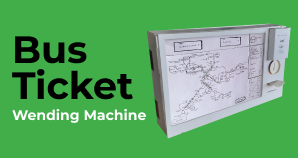
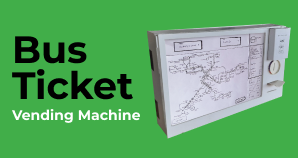
alignment

Changed region(s): [[0.0302, 0.6835, 0.5134, 0.7848]]

diff --git a/research-projects/bus-ticket.html b/research-projects/bus-ticket.html
@@ -22,7 +22,7 @@
         rel="stylesheet">
         <link href="https://fonts.googleapis.com/css2?family=Playfair+Display:wght@500;600;700;800;900&family=Poppins:ital,wght@0,100;0,200;0,300;0,400;0,500;0,600;0,700;0,800;0,900;1,100;1,200;1,300;1,400;1,500;1,600;1,700;1,800;1,900&display=swap" rel="stylesheet">
 
-    <title>Bus Ticket Wending Machine</title>
+    <title>Bus Ticket vending Machine</title>
 </head>
 
 <body>
@@ -97,7 +97,7 @@
         
         <div class="col-sm-9 headline" >
 
-            <p class="heading-text" id="categories">Bus ticket Wending Machine</p>
+            <p class="heading-text" id="categories">Bus ticket vending Machine</p>
 
       
     </div>
@@ -109,7 +109,7 @@
 
                 <img class="profile-picture rounded-circle" src="/Images/profilePicture.png">
         
-        <p class="author-name" >Name: Denver Saldanha</p>
+        <p class="author-name" >Name: <span onclick="window.location.href='/about.html';">Denver Saldanha</span></p>
         </div>
         
     </div>

diff --git a/research-projects/bus-ticket.css b/research-projects/bus-ticket.css
@@ -157,7 +157,7 @@
   
   
   a:hover {
-    text-decoration: none;
+    
    
   }
   
@@ -189,7 +189,7 @@
   /* Sub-details panel */
   .sub-details{
 
-    text-align: left;
+    text-align: center;
     align-content: center;
     justify-content: center;
     
@@ -231,9 +231,9 @@
   }
   .date-bg{
       background-color:#d9f5e9;
-      margin-right:170px;
-      margin-left: 2px;
       border-radius: 30px;
+      margin-left: 45px;
+      margin-right: 45px;
       text-align: center;
   }
 
@@ -259,13 +259,11 @@
   a {
     color: #444444;
     font-weight: 500;
-    text-decoration: none;
     background-color: transparent;
   }
   
   a:hover {
     color: rgb(65, 174, 73);
-    text-decoration: none;
   }
   
   footer {
